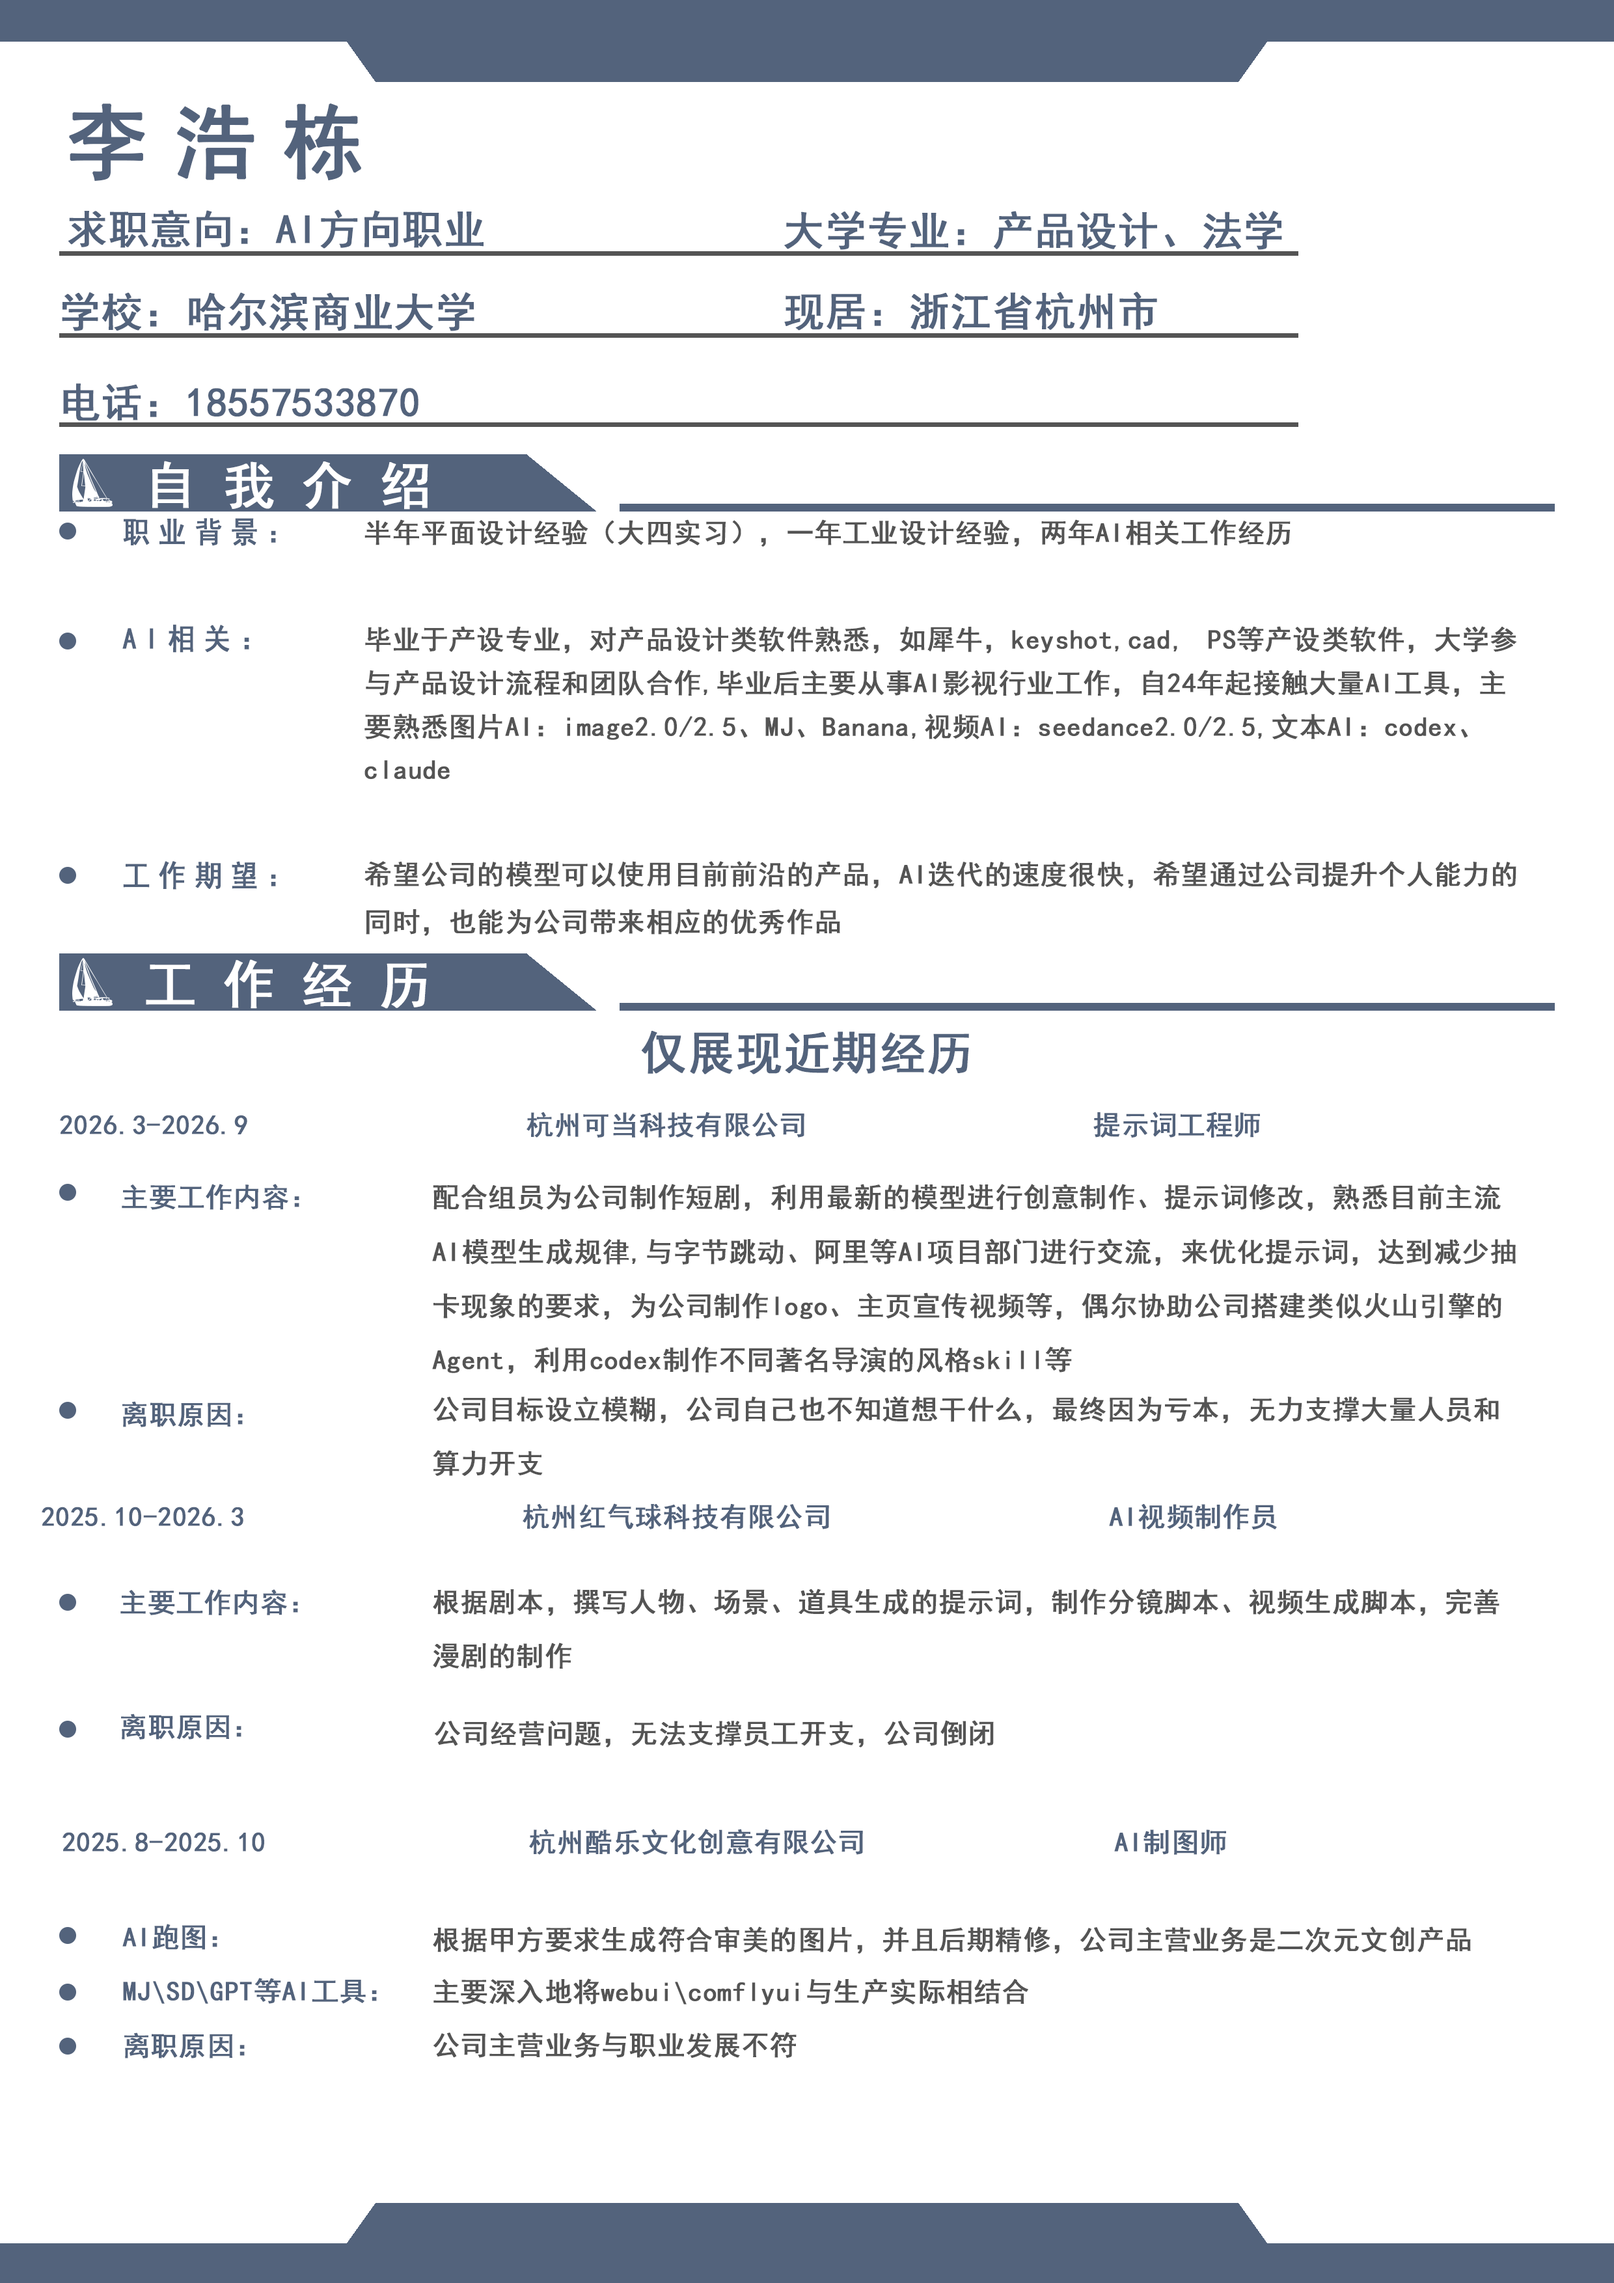
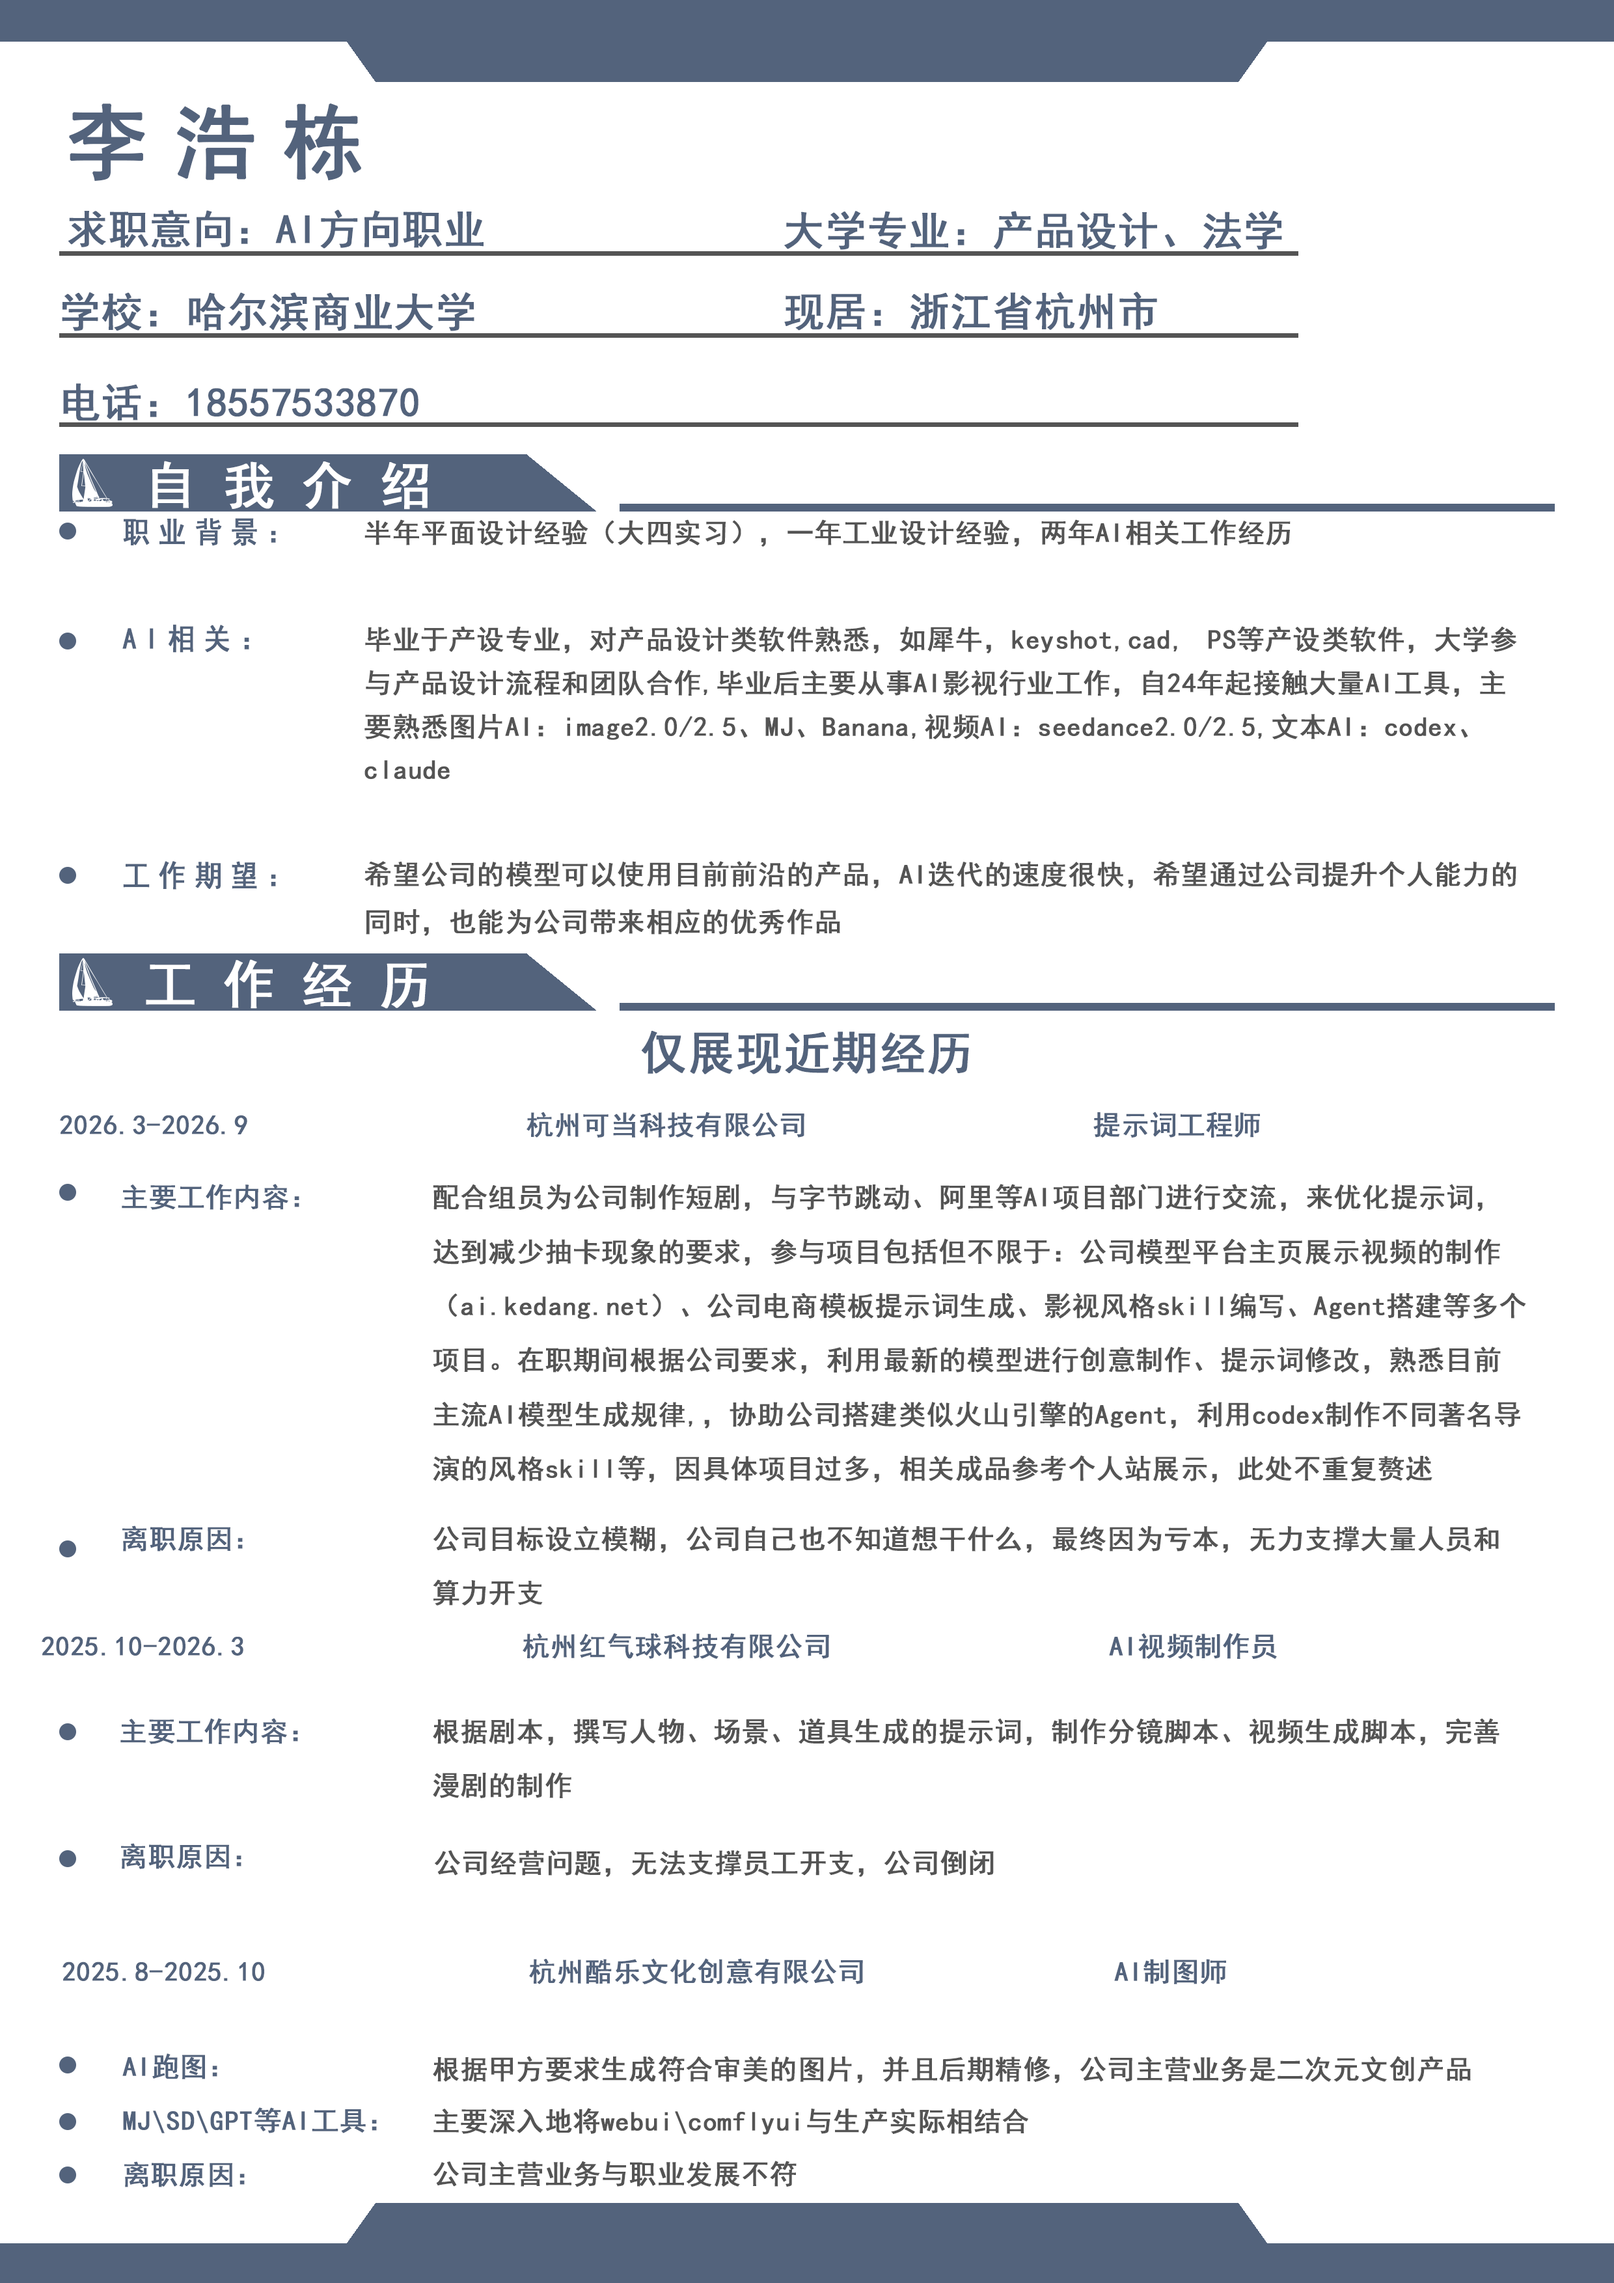
Optimize mobile previews and refresh resume

diff --git a/app/page.tsx b/app/page.tsx
@@ -346,6 +346,7 @@ function CurvedLedVideo({
     }
     const context = canvas.getContext('2d');
     if (!context) return;
+    const isMobileRenderer = window.matchMedia(MOBILE_PAGE_MEDIA).matches;
 
     // Match the backing canvas to the displayed aspect ratio. Keeping the
     // longer edge capped preserves the video proportions on portrait phones
@@ -355,8 +356,10 @@ function CurvedLedVideo({
     const resizeCanvas = () => {
       const bounds = canvas.parentElement?.getBoundingClientRect();
       const aspect = Math.max(0.35, Math.min(3, (bounds?.width ?? 960) / Math.max(1, bounds?.height ?? 540)));
-      const nextWidth = aspect >= 1 ? 960 : Math.max(336, Math.round(960 * aspect));
-      const nextHeight = aspect >= 1 ? Math.max(336, Math.round(960 / aspect)) : 960;
+      const renderEdge = isMobileRenderer ? 640 : 960;
+      const minimumEdge = isMobileRenderer ? 224 : 336;
+      const nextWidth = aspect >= 1 ? renderEdge : Math.max(minimumEdge, Math.round(renderEdge * aspect));
+      const nextHeight = aspect >= 1 ? Math.max(minimumEdge, Math.round(renderEdge / aspect)) : renderEdge;
       width = nextWidth;
       height = nextHeight;
       if (canvas.width !== width) canvas.width = width;
@@ -409,7 +412,7 @@ function CurvedLedVideo({
       context.beginPath();
       regions.forEach(addRegionPath);
       context.clip();
-      const strips = 40;
+      const strips = isMobileRenderer ? 20 : 40;
       const sourceStrip = sourceWidth / strips;
       const destinationStrip = width / strips;
       for (let strip = 0; strip < strips; strip += 1) {
@@ -436,7 +439,7 @@ function CurvedLedVideo({
     let previousDrawTime = 0;
     const draw = (now: number) => {
       frame = window.requestAnimationFrame(draw);
-      if (now - previousDrawTime < 1000 / 30) return;
+      if (now - previousDrawTime < 1000 / (isMobileRenderer ? 24 : 30)) return;
       previousDrawTime = now;
       const source = syncSourceRef.current;
       const currentTrack = burst.tracks[0];
@@ -447,9 +450,9 @@ function CurvedLedVideo({
         && source.readyState >= 2
         && !source.paused,
       );
-      const currentVideo = sourceMatchesCurrent
-        ? source
-        : currentTrack ? videoRefs.current[currentTrack.src] : null;
+      const proxyVideo = currentTrack ? videoRefs.current[currentTrack.src] : null;
+      if (sourceMatchesCurrent && proxyVideo && !proxyVideo.paused) proxyVideo.pause();
+      const currentVideo = sourceMatchesCurrent ? source : proxyVideo;
       if (burst.mode === 'carousel' && source?.readyState && !source.paused && currentVideo?.readyState) {
         if (Math.abs(currentVideo.currentTime - source.currentTime) > .08) currentVideo.currentTime = source.currentTime;
         if (currentVideo.paused) {
@@ -1260,6 +1263,7 @@ export default function Home() {
   const [activeHeroWorkIndex, setActiveHeroWorkIndex] = useState(0);
   const [heroTurn, setHeroTurn] = useState<HeroTurn>('idle');
   const [heroPlayback, setHeroPlayback] = useState({ currentTime: 0, duration: 0, paused: true, muted: false });
+  const [isMobileViewport, setIsMobileViewport] = useState(false);
   const [isMobileHeroEngaged, setIsMobileHeroEngaged] = useState(false);
   const [isHeroSurfaceActive, setIsHeroSurfaceActive] = useState(true);
   const [activeTimelineYear, setActiveTimelineYear] = useState(timeline[0].year);
@@ -1267,6 +1271,14 @@ export default function Home() {
   const [activeSectionId, setActiveSectionId] = useState('top');
   const [sectionStretchKey, setSectionStretchKey] = useState(0);
   const [railBurst, setRailBurst] = useState<{ year: string; id: number } | null>(null);
+
+  useEffect(() => {
+    const mobileViewport = window.matchMedia(MOBILE_PAGE_MEDIA);
+    const updateMobileViewport = () => setIsMobileViewport(mobileViewport.matches);
+    updateMobileViewport();
+    mobileViewport.addEventListener('change', updateMobileViewport);
+    return () => mobileViewport.removeEventListener('change', updateMobileViewport);
+  }, []);
 
   const moveSiteNavPill = useCallback((index: number, showEnglish = false) => {
     const nav = siteNavRef.current;
@@ -2164,28 +2176,30 @@ export default function Home() {
           }}
           onTouchCancel={() => { heroTouchStartRef.current = null; }}
         >
-          <div className="hero-ripple-layer" aria-hidden="true">
-            <RippleDistortion
-              src="/images/hero-curved-grid.svg?v=3"
-              brushSize={38}
-              strength={0.1}
-              swirl={0.45}
-              rings={2}
-              spread={1.8}
-              fade={1.35}
-              spacing={16}
-              dispersion={0.025}
-              glint={0.28}
-              tint="#6688ff"
-              tintAmount={0.12}
-              highlightColor="#c9efff"
-              grayscale
-              overlayOnly
-              trigger="both"
-              quality="low"
-              enabled={isHeroSurfaceActive}
-            />
-          </div>
+          {!isMobileViewport ? (
+            <div className="hero-ripple-layer" aria-hidden="true">
+              <RippleDistortion
+                src="/images/hero-curved-grid.svg?v=3"
+                brushSize={38}
+                strength={0.1}
+                swirl={0.45}
+                rings={2}
+                spread={1.8}
+                fade={1.35}
+                spacing={16}
+                dispersion={0.025}
+                glint={0.28}
+                tint="#6688ff"
+                tintAmount={0.12}
+                highlightColor="#c9efff"
+                grayscale
+                overlayOnly
+                trigger="both"
+                quality="low"
+                enabled={isHeroSurfaceActive}
+              />
+            </div>
+          ) : null}
           <div
             className={`hero-led-video-burst hero-led-video-burst--${ledVideoBurst.mode} hero-led-video-burst--turn-${ledVideoBurst.turn}`}
             key={ledVideoBurst.mode === 'carousel' ? ledVideoBurst.id : 'ambient'}
@@ -2240,7 +2254,11 @@ export default function Home() {
                 const isOpening = position === 'opening';
                 const isPreview = position === 'previous' || position === 'preview-first' || position === 'preview-second';
                 const isVisible = isActive || isOpening || isPreview;
-                const shouldLoadVideo = index <= activeHeroWorkIndex + 2;
+                const shouldLoadVideo = heroStage === 0
+                  ? index === 0
+                  : isMobileViewport
+                    ? Math.abs(index - activeHeroWorkIndex) <= 1 || index === activeHeroWorkIndex + 2
+                    : index <= activeHeroWorkIndex + 2;
                 return (
                   <div
                     className={`hero-carousel-card hero-carousel-card--${position}`}
@@ -2274,7 +2292,9 @@ export default function Home() {
                       disablePictureInPicture
                       disableRemotePlayback
                       poster={index === 0 ? '/images/hero-video-poster.jpg' : undefined}
-                      preload={(isActive && heroStage === 2) || isOpening ? 'auto' : isVisible ? 'metadata' : 'none'}
+                      preload={(isActive && heroStage === 2) || isOpening || (isMobileViewport && position === 'preview-first')
+                        ? 'auto'
+                        : isVisible ? 'metadata' : 'none'}
                       src={shouldLoadVideo ? work.src : undefined}
                       data-hero-video-index={index}
                       aria-label={isVisible ? work.title : undefined}
